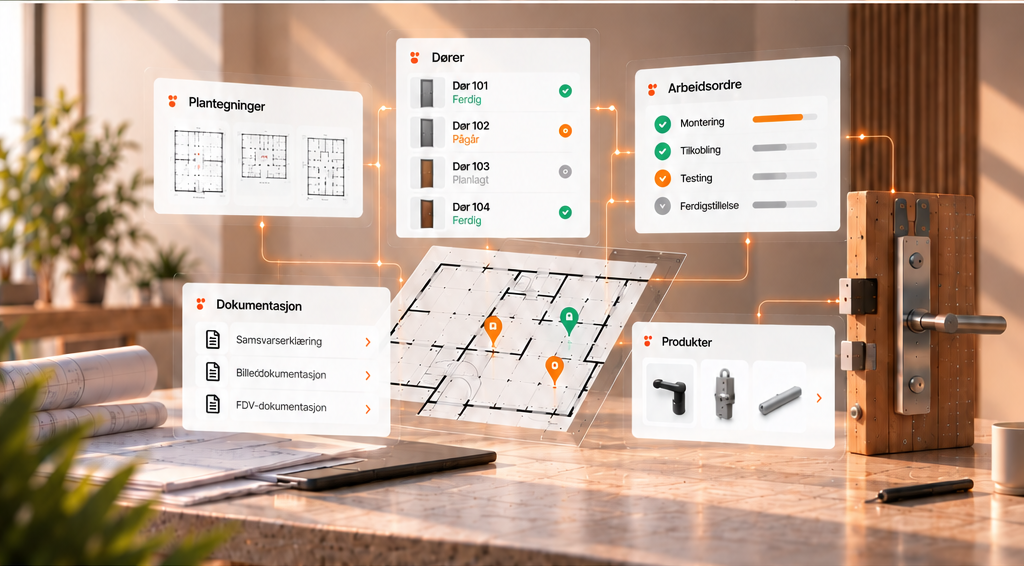
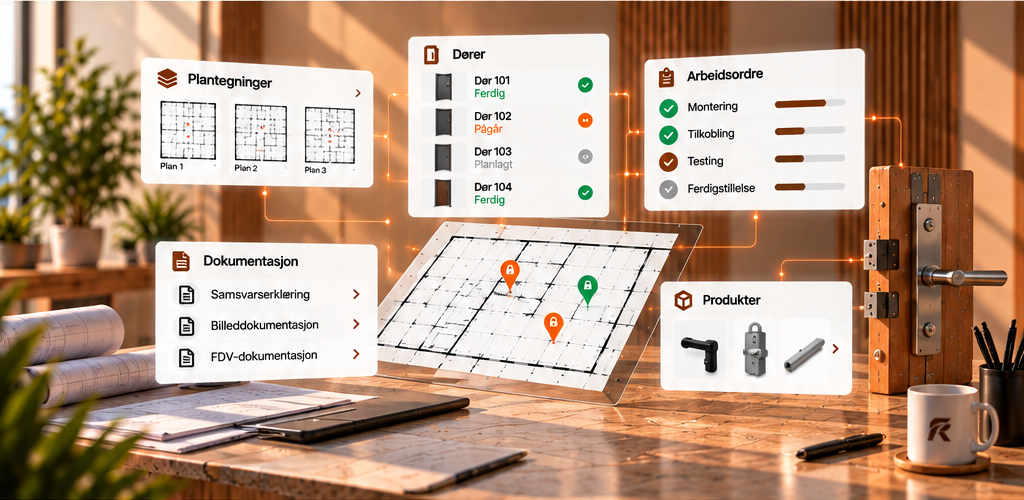
Unngå oppskalering av bakgrunnsbilder på innloggingssiden
Bildene på /login ble tidligere strukket for å fylle hele bredden,
noe som ga uskarp grafikk på brede skjermer. Nå beholder bildene sin
egen størrelse (maks 1440px) og sentreres, mens margene fylles med en
varm gradient og et diskret prikkmønster i stedet for å skalere opp
bildet. Nytt bakgrunnsbilde brukt i alle tre seksjonene.

diff --git a/src/PortalItlock.Web/Components/Pages/Login.razor.css b/src/PortalItlock.Web/Components/Pages/Login.razor.css
@@ -5,28 +5,38 @@
 
 .login-hero-section {
     width: 100%;
-    aspect-ratio: 1024 / 471;
-    min-height: 300px;
     box-sizing: border-box;
     position: relative;
     overflow: hidden;
+    display: flex;
+    justify-content: center;
+    background: linear-gradient(135deg, #f8f2e8 0%, #f0e3d1 100%);
+}
+
+.login-hero-section::before {
+    content: '';
+    position: absolute;
+    inset: 0;
+    background-image: radial-gradient(rgba(131, 94, 65, 0.14) 1.4px, transparent 1.4px);
+    background-size: 26px 26px;
+    pointer-events: none;
 }
 
 .login-photo {
-    position: absolute;
-    inset: 0;
-    overflow: hidden;
+    position: relative;
+    z-index: 1;
     display: flex;
-    align-items: center;
+    justify-content: center;
+    width: 100%;
 }
 
 .login-photo-img {
-    position: absolute;
-    inset: 0;
+    position: relative;
     width: 100%;
-    height: 100%;
-    object-fit: cover;
-    object-position: 32% 30%;
+    max-width: 1440px;
+    height: auto;
+    display: block;
+    box-shadow: 0 30px 80px -40px rgba(26, 18, 10, 0.35);
 }
 
 .login-photo-scrim {
@@ -153,19 +163,31 @@
 
 .login-showcase {
     width: 100%;
-    aspect-ratio: 1024 / 566;
-    min-height: 280px;
     box-sizing: border-box;
     position: relative;
     overflow: hidden;
+    display: flex;
+    justify-content: center;
+    background: linear-gradient(135deg, #f0e3d1 0%, #f8f2e8 100%);
+}
+
+.login-showcase::before {
+    content: '';
+    position: absolute;
+    inset: 0;
+    background-image: radial-gradient(rgba(131, 94, 65, 0.14) 1.4px, transparent 1.4px);
+    background-size: 26px 26px;
+    pointer-events: none;
 }
 
 .login-showcase-bg {
-    position: absolute;
-    inset: 0;
+    position: relative;
+    z-index: 1;
     width: 100%;
-    height: 100%;
-    object-fit: cover;
+    max-width: 1440px;
+    height: auto;
+    display: block;
+    box-shadow: 0 30px 80px -40px rgba(26, 18, 10, 0.35);
 }
 
 .login-showcase-scrim {
@@ -211,19 +233,31 @@
 
 .login-worker {
     width: 100%;
-    aspect-ratio: 1024 / 499;
-    min-height: 160px;
     box-sizing: border-box;
     position: relative;
     overflow: hidden;
+    display: flex;
+    justify-content: center;
+    background: linear-gradient(135deg, #f8f2e8 0%, #f0e3d1 100%);
+}
+
+.login-worker::before {
+    content: '';
+    position: absolute;
+    inset: 0;
+    background-image: radial-gradient(rgba(131, 94, 65, 0.14) 1.4px, transparent 1.4px);
+    background-size: 26px 26px;
+    pointer-events: none;
 }
 
 .login-worker-bg {
-    position: absolute;
-    inset: 0;
+    position: relative;
+    z-index: 1;
     width: 100%;
-    height: 100%;
-    object-fit: cover;
+    max-width: 1440px;
+    height: auto;
+    display: block;
+    box-shadow: 0 30px 80px -40px rgba(26, 18, 10, 0.35);
 }
 
 .login-showcase-cta {
@@ -593,16 +627,6 @@ label {
         }
 
 @media (max-width: 640px) {
-    .login-hero-section {
-        aspect-ratio: auto;
-        height: 100vh;
-    }
-
-    .login-showcase {
-        aspect-ratio: auto;
-        height: 100vh;
-    }
-
     .login-topbar {
         padding: 0.9rem 1.25rem;
     }
